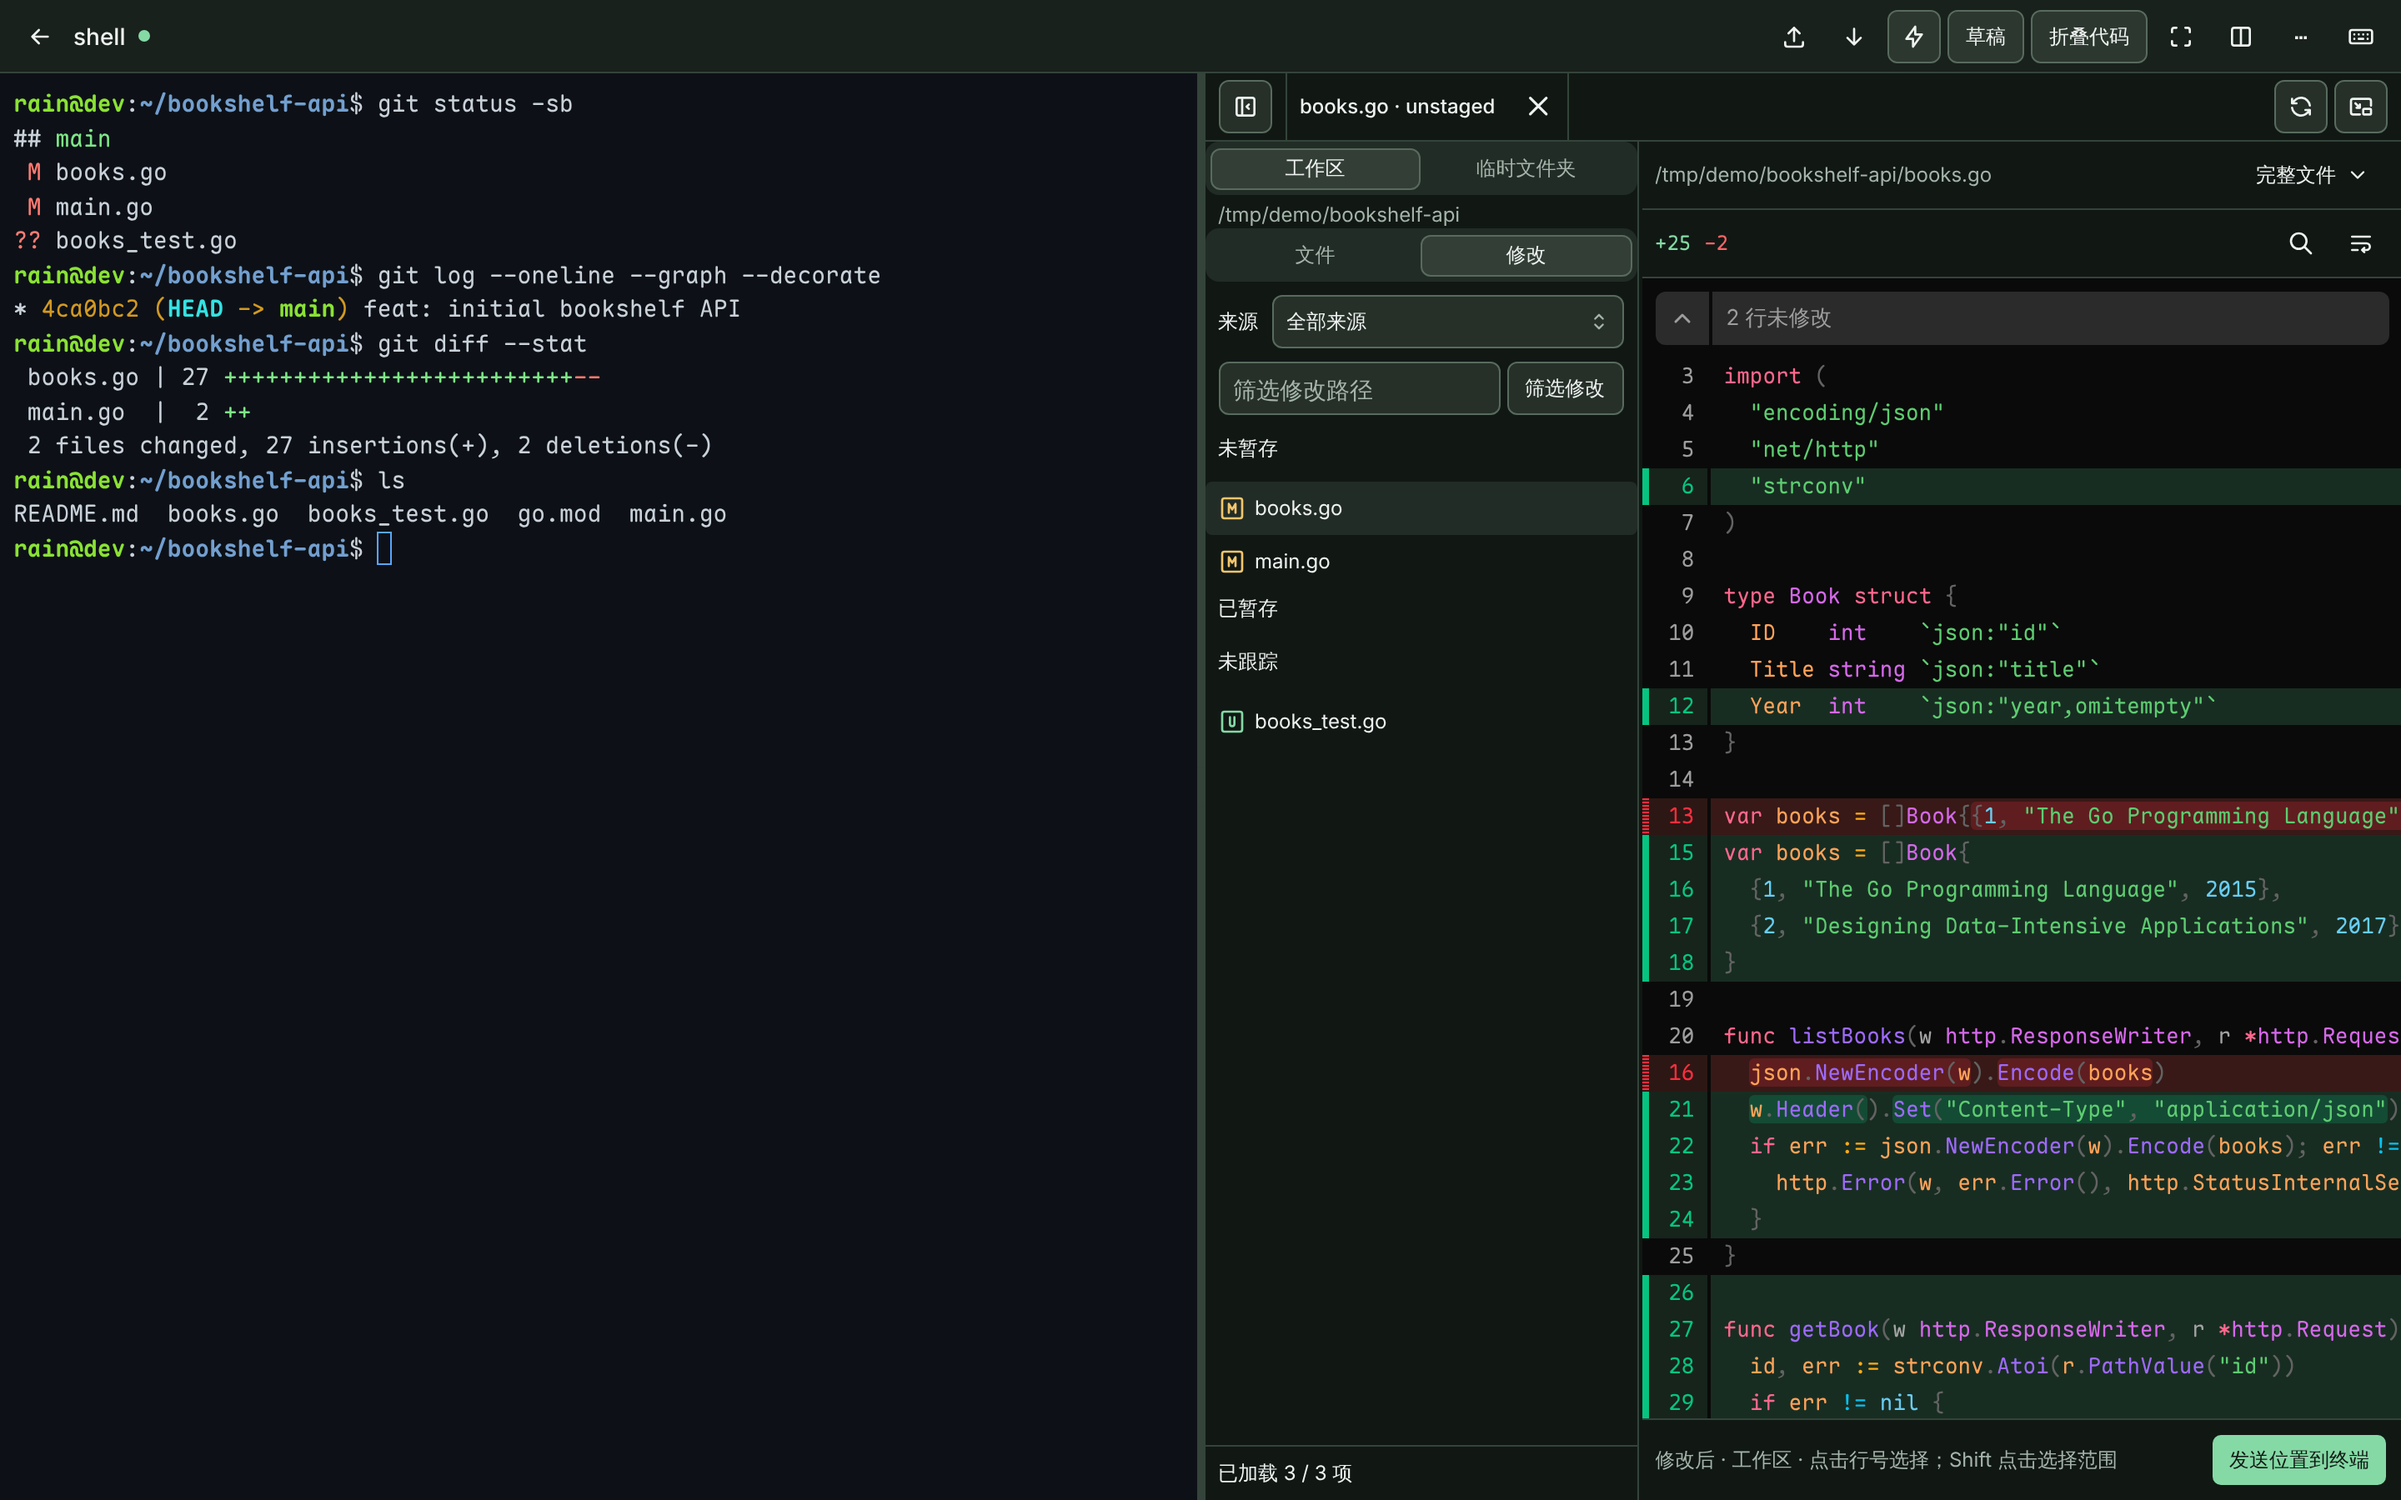
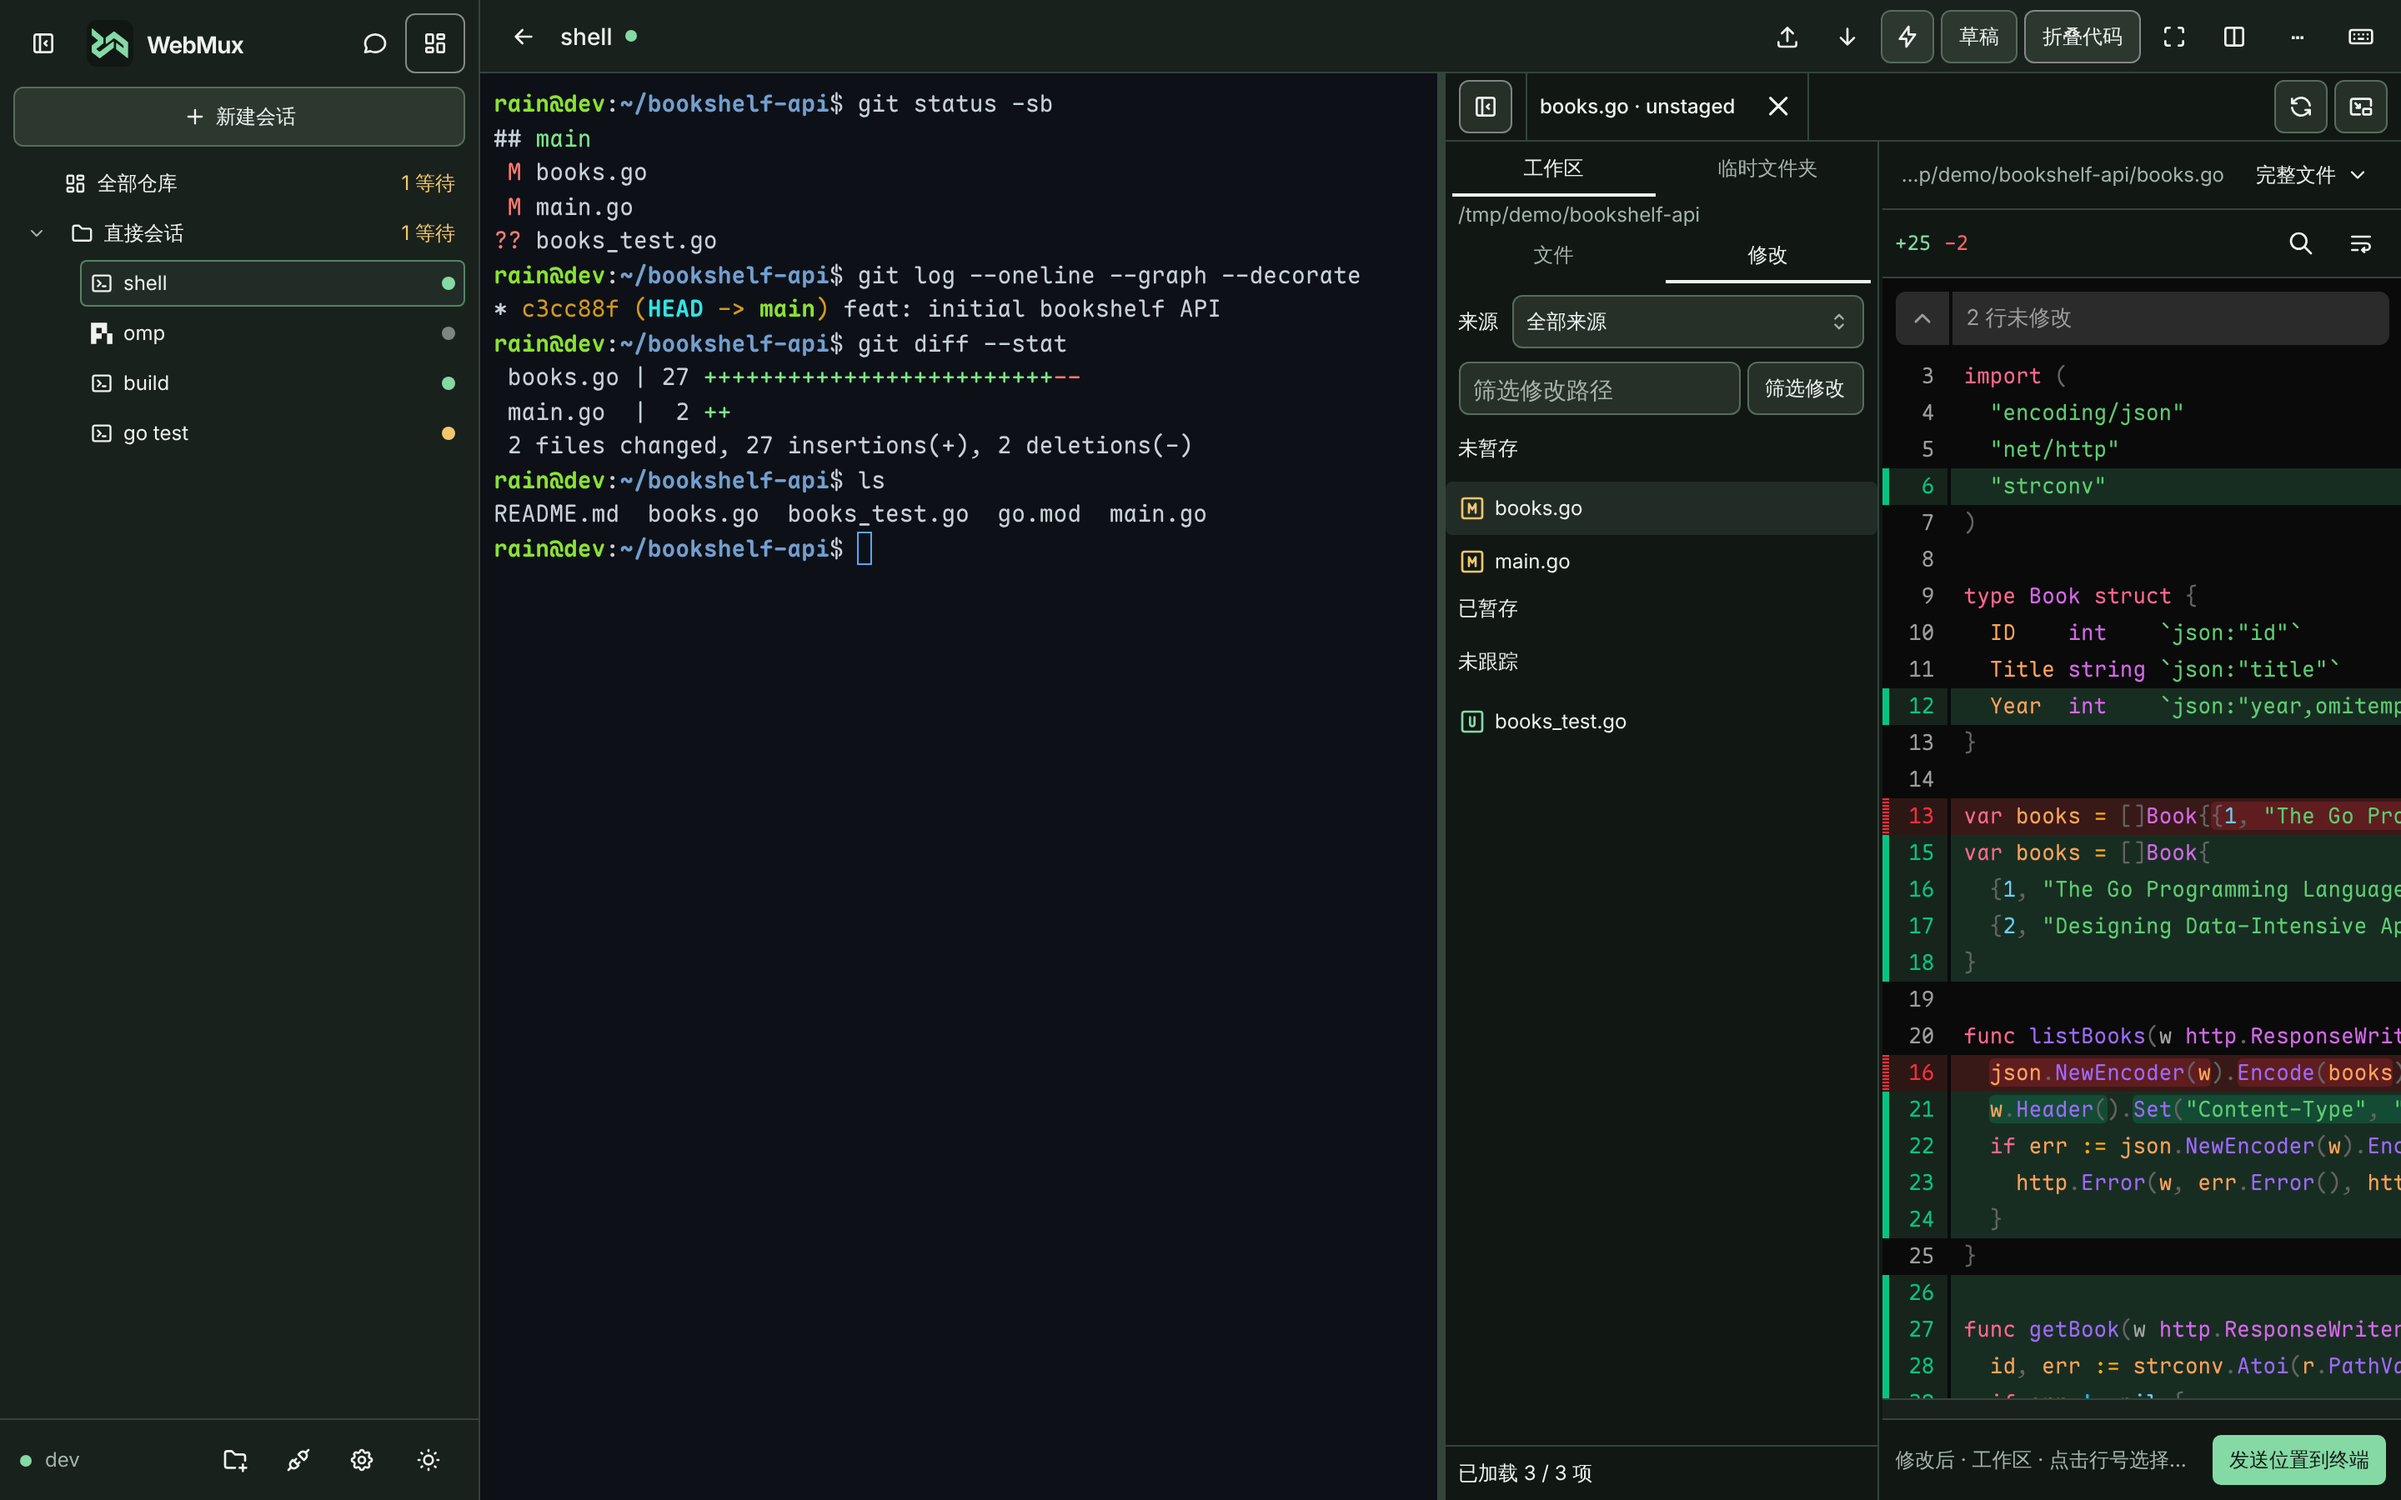
docs: regenerate all screenshots for the new app shell, add port forwarding and Quick Start shots (#336)
* docs: refresh screenshots for the new app shell, add port forwarding and Quick Start shots

The screenshot script still looked for the old header "新建会话" button and
tab-style start side, so it no longer ran against the sidebar shell (#321).

- Follow the e2e helpers: open New Session from the main area, pick from
  the 运行 / 位置 lists, radio start side, session name under 高级.
- Phone code view uses the header 会话视图 tabs.
- New captures: desktop-port-forward.png (detected-port banner while a
  demo API listens on 8080) and desktop-quick-start.png (/new with a task
  typed, not sent); referenced from the usage docs.
- Regenerated desktop/mobile terminal and diff shots. The omp-based shots
  (overview, omp, chat) and hero.jpg are unchanged: they need the real omp
  binary to replay the recorded session.

User stories: US-L03 updated (two extra feature screenshots).

Claude-Session: https://claude.ai/code/session_01Ab6Q7HJ4deRxMTXXiY2F5g

* docs(website): add features and use-case pages, widen comparison scope

- pages.md: /features/ and /use-cases/ in the site map; /compare/ split
  into three tables; header nav is now 功能 · 使用场景 · 对比 · 文档 · 常见问题.
- strategy.md: comparison targets grouped into terminals, remote control
  for coding agents (Happy, Claude Code Remote Control, Codex cloud) and
  editors, plus Zellij and sshx; new dimensions for dev-server ports,
  self-hosting, any-agent support and license.

User stories: no impact (website spec only).
[…]

diff --git a/docs/website/pages.md b/docs/website/pages.md
@@ -4,24 +4,26 @@
 
 ## 站点地图
 
-| URL           | 页面             | 任务与主 CTA                                       | 阶段 |
-| ------------- | ---------------- | -------------------------------------------------- | ---- |
-| `/`           | 首页             | 十秒理解 + 复制安装命令                            | 1    |
-| `/download/`  | 下载与安装       | 所有安装方式、校验、镜像、升级说明                 | 1    |
-| `/faq/`       | 常见问题         | 解答疑虑；带 FAQ 结构化数据                        | 1    |
-| `/security/`  | 安全与部署建议   | 说明安全模型与推荐部署拓扑，建立信任               | 1    |
-| `/compare/`   | 对比             | 与 tmux / ttyd / mosh 等的事实维度对比             | 1    |
-| `/changelog/` | 更新日志         | 由 Release 生成，带 Atom 订阅                      | 1    |
-| `/windows/`   | Windows（WSL）   | 托盘、安装程序、控制台客户端的落地页               | 1    |
-| `/docs/`      | 文档中心         | 镜像主仓库 `docs/`，带侧栏与全文搜索；SEO 内容主体 | 1    |
-| `/agents/`    | 支持的 CLI agent | 兼容矩阵；每款 agent 一个子页面承接长尾搜索        | 2    |
-| `/404`        | 未找到           | 站内链接与搜索入口，返回真实 404 状态              | 1    |
+| URL           | 页面             | 任务与主 CTA                                               | 阶段 |
+| ------------- | ---------------- | ---------------------------------------------------------- | ---- |
+| `/`           | 首页             | 十秒理解 + 复制安装命令                                    | 1    |
+| `/features/`  | 功能             | 最近加入（按版本标注，如“v0.12 新增”）+ 五组功能清单       | 2    |
+| `/use-cases/` | 使用场景         | 九个场景（重点：远程 Linux 服务器 Web 开发）与不适合的场景 | 2    |
+| `/download/`  | 下载与安装       | 所有安装方式、校验、镜像、升级说明                         | 1    |
+| `/faq/`       | 常见问题         | 解答疑虑；带 FAQ 结构化数据                                | 1    |
+| `/security/`  | 安全与部署建议   | 说明安全模型与推荐部署拓扑，建立信任                       | 1    |
+| `/compare/`   | 对比             | 按终端、agent 遥控、编辑器三类分表的事实维度对比           | 1    |
+| `/changelog/` | 更新日志         | 由 Release 生成，带 Atom 订阅                              | 1    |
+| `/windows/`   | Windows（WSL）   | 托盘、安装程序、控制台客户端的落地页                       | 1    |
+| `/docs/`      | 文档中心         | 镜像主仓库 `docs/`，带侧栏与全文搜索；SEO 内容主体         | 1    |
+| `/agents/`    | 支持的 CLI agent | 兼容矩阵；每款 agent 一个子页面承接长尾搜索                | 2    |
+| `/404`        | 未找到           | 站内链接与搜索入口，返回真实 404 状态                      | 1    |
 
 多语言：简体中文为默认语言（`/`），英文在 `/en/` 下镜像同一套页面；英文版由人工撰写或校对，不能是机器直译。
 
 ## 全站框架
 
-- **页头**：左侧 Logo（深浅色两版），右侧导航“功能 · 下载 · 文档 · FAQ · GitHub”，GitHub 项显示 star 数；语言切换与主题切换放在最右；小于 640px 折叠为菜单。
+- **页头**：左侧 Logo（深浅色两版），右侧导航“功能 · 使用场景 · 对比 · 文档 · 常见问题 · GitHub”（安装由右侧 CTA 按钮承接），GitHub 项显示 star 数；语言切换与主题切换放在最右；小于 640px 折叠为菜单。
 - **页脚**：四列——产品（下载、更新日志、对比、安全）、文档（文档中心、使用指南、部署指南、协议，均指向官网 `/docs/`）、社区（GitHub、Issues、安全漏洞报告、参与贡献）、法律（MIT 许可、字体与图标许可、隐私说明）。底部一行写明“WebMux 是开源项目，与 Anthropic、OpenAI 等 agent 厂商无隶属关系”。
 - **版本条**：页头或 Hero 下方显示最新版本号、发布日期与平台徽标，数据来自构建期 Release 信息。
 

diff --git a/docs/website/strategy.md b/docs/website/strategy.md
@@ -68,7 +68,13 @@
 
 ## 差异化与对比规则
 
-对比对象限定为用户真实会拿来比较的方案：SSH + tmux、ttyd / gotty、mosh、VS Code Remote Tunnels、code-server，以及各类“手机上用 agent”的客户端。对比表只列可核实的事实维度，不做主观评价：
+对比对象限定为用户真实会拿来比较的方案，按三类分表：
+
+- **终端与远程 shell**：SSH + tmux、ttyd / gotty、mosh、Zellij Web 客户端、sshx。
+- **遥控 coding agent**：各类“手机上用 agent”的方案，如 Happy、Claude Code Remote Control、OpenAI Codex cloud。
+- **浏览器与远程编辑器**：VS Code Remote Tunnels、code-server。
+
+对比表只列可核实的事实维度，不做主观评价：
 
 - 浏览器断开后会话是否继续、重连是否只补发缺失输出。
 - 手机上的 TUI 适配：软键栏、触摸滚动、键盘视口。
@@ -76,6 +82,7 @@
 - 是否提供聊天视图与 TUI 的互切。
 - 是否单二进制、是否需要 root、是否需要额外守护进程或数据库。
 - 是否在终端旁提供代码与 Diff 浏览、worktree 管理。
+- 是否能经同一地址访问开发服务器端口；是否自托管、不经第三方中转；是否适用任意 CLI agent；开源许可。
 
 对方的情况以其官方文档为准，表下注明核对日期；拿不准的格子写“未核实”，不要猜。对比页的目的不是贬低对方，而是帮用户判断适用场景，必要时写明“如果你只需要 X，用 Y 更简单”。
 

diff --git a/docs/usage.md b/docs/usage.md
@@ -26,6 +26,9 @@
   - **快速开始**：在输入框上方选择仓库与基准分支（可搜索本地分支，按名称区分），下方选择 Agent（只列出开启了混合模式的配置）、配置项与权限模式（默认“全部接受”）。选中或切换 Agent 时会临时读取它的配置项（读取期间相关控件禁用，失败时沿用上次记住的清单）。
   - **附件**：与聊天视图相同，可通过上传按钮、粘贴或拖放添加附件（会话创建前暂存在服务端，创建后随首条消息发送）。
   - **进入已有聊天**：输入框上方只读显示该会话所在的仓库与 worktree 分支（进入时刷新）。
+
+  ![快速开始页：选择仓库与分支，写下任务后新建 worktree 并以聊天启动 agent](images/desktop-quick-start.png)
+
 - **工作台模式**：侧栏是「仓库 → 工作树 → 会话」导航树，主区域是会话总览。仓库行的「+」打开新建工作树弹窗。
 - **仓库初始化指令**：在首页工具栏的「仓库设置」按钮中填写（侧栏选中某个仓库，或只登记了一个仓库时显示）：
   - 指令是一段多行模板（最多 4000 字符），可用 `{{快捷指令名称}}` 引用设置里的快捷指令，用内置的 `{{user}}` 指定你的第一条消息放在哪里（不写则接在指令后面），用内置的 `{{dir}}` 代表新会话的临时文件夹路径。

diff --git a/docs/usage/port-forwarding.md b/docs/usage/port-forwarding.md
@@ -11,6 +11,8 @@
   - 同时有多个端口时最多显示两条，其余合并为“另有 N 个端口”，点击“查看全部”打开转发对话框。
 - **首页“端口转发”按钮**：顶栏“新建会话”右侧的按钮（有转发时显示数量）打开转发对话框，可以手动输入端口添加，也可以从“检测到的端口”中一键转发。
 
+![终端上方的端口检测提示：检测到端口 8080 正在监听，可转发并打开、转发或忽略](../images/desktop-port-forward.png)
+
 转发地址是 `/forward/{端口}/`，例如 `https://你的主机/forward/5173/`。从对话框复制的链接可以在同一浏览器的新标签页直接打开：浏览器还没有转发凭据时，会先经过 `/forward-auth` 自动认证再回到原地址；没有登录 WebMux 的浏览器会先显示 Token 登录。
 
 转发只保存在服务端内存中：手动移除或服务重启后消失。它与会话无关，会话退出后转发仍然保留。

diff --git a/docs/user-stories/operations-and-tooling.md b/docs/user-stories/operations-and-tooling.md
@@ -178,6 +178,7 @@
   - Storybook 提供设计系统、工作区与溢出场景；
   - 浏览器检查布局与可达性；
   - 截图脚本运行真实后端；omp 对话默认从仓库内录制的会话回放，不调用模型，`WEBMUX_SCREENSHOTS_RECORD=1` 时真实录制并导出新会话；
+  - 截图脚本按当前侧栏外壳与新建会话弹窗操作，并额外生成端口转发提示（`desktop-port-forward.png`）与快速开始页（`desktop-quick-start.png`）两张功能截图；
   - `screenshots:hero` 由已生成的桌面与手机截图合成 README 主图，缺图时失败；
   - 可见 UI 的 PR 按项目要求附最终实现截图。
 - **US-L04 基线评测与多平台发布**：作为维护者，我希望可复现地测量核心能力并构建各平台产物，以便比较回归和交付版本。
